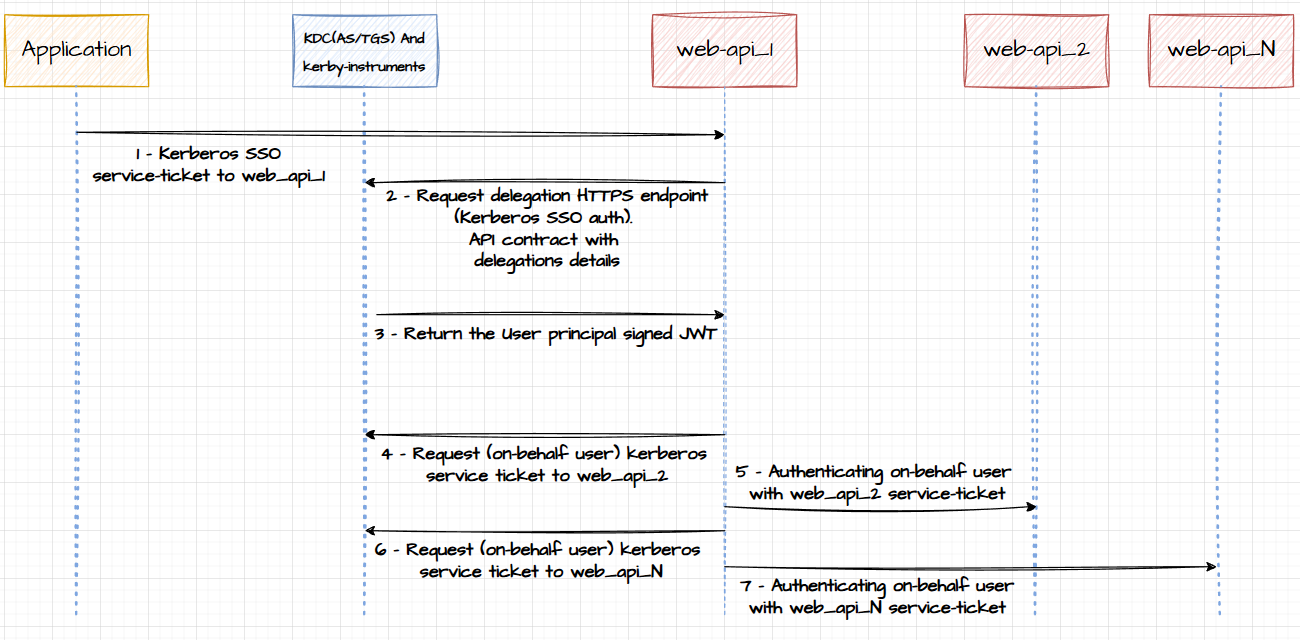
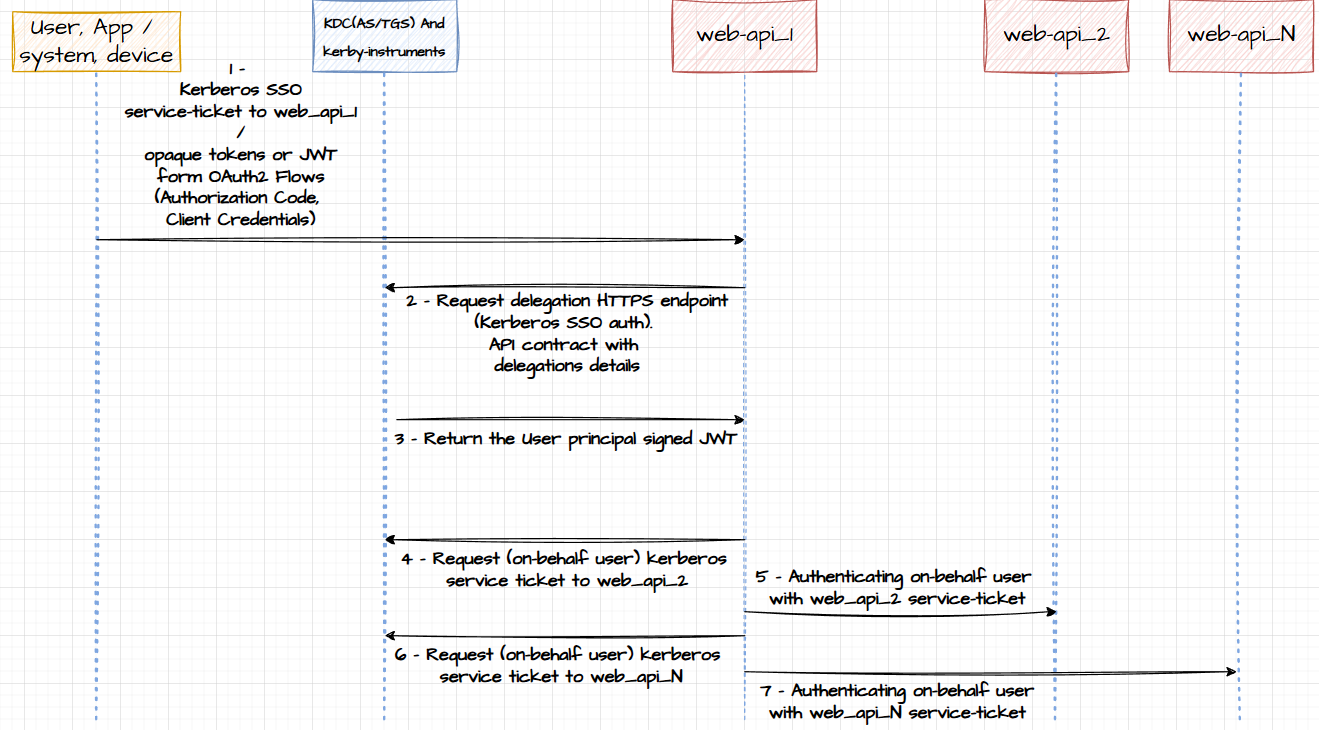
chore: updating the doc

diff --git a/README.md b/README.md
@@ -56,6 +56,7 @@ Kerberos and OAuth2 Flows usage / KDC cert and key.
 >**Self-signed private PKI embedded on Kerby-instruments:** 
 - Needs supports to PKINIT EKUs keyPurposeKdc 1.3.6.1.5.2.3.5, keyPurposeClientAuth 1.3.6.1.5.2.3.4 and [some unusual fields for client certs and KDC cert](https://web.mit.edu/Kerberos/krb5-1.12/doc/admin/pkinit.html). Will be used to user authenticate with X.509 certificates (no need of keytabs or passwords inputs)
 - Needs support to EKU Client Authentication 1.3.6.1.5.5.7.3.2. Clients will be able to create signed JTWs that can be validated in Ory Hydra
+- Needs support JSON Web Signature (JWS) [RFC 7515](https://datatracker.ietf.org/doc/html/rfc7515). Attentions in ["x5u" (X.509 URL) Header Parameter](https://datatracker.ietf.org/doc/html/rfc7515#section-4.1.5) and ["x5c" (X.509 Certificate Chain) Header Parameter](https://datatracker.ietf.org/doc/html/rfc7515#section-4.1.6)
 - Ory ecosystem needs to be configured to trust the self-signed PKI.
 
 **Ory ecosystem:**
